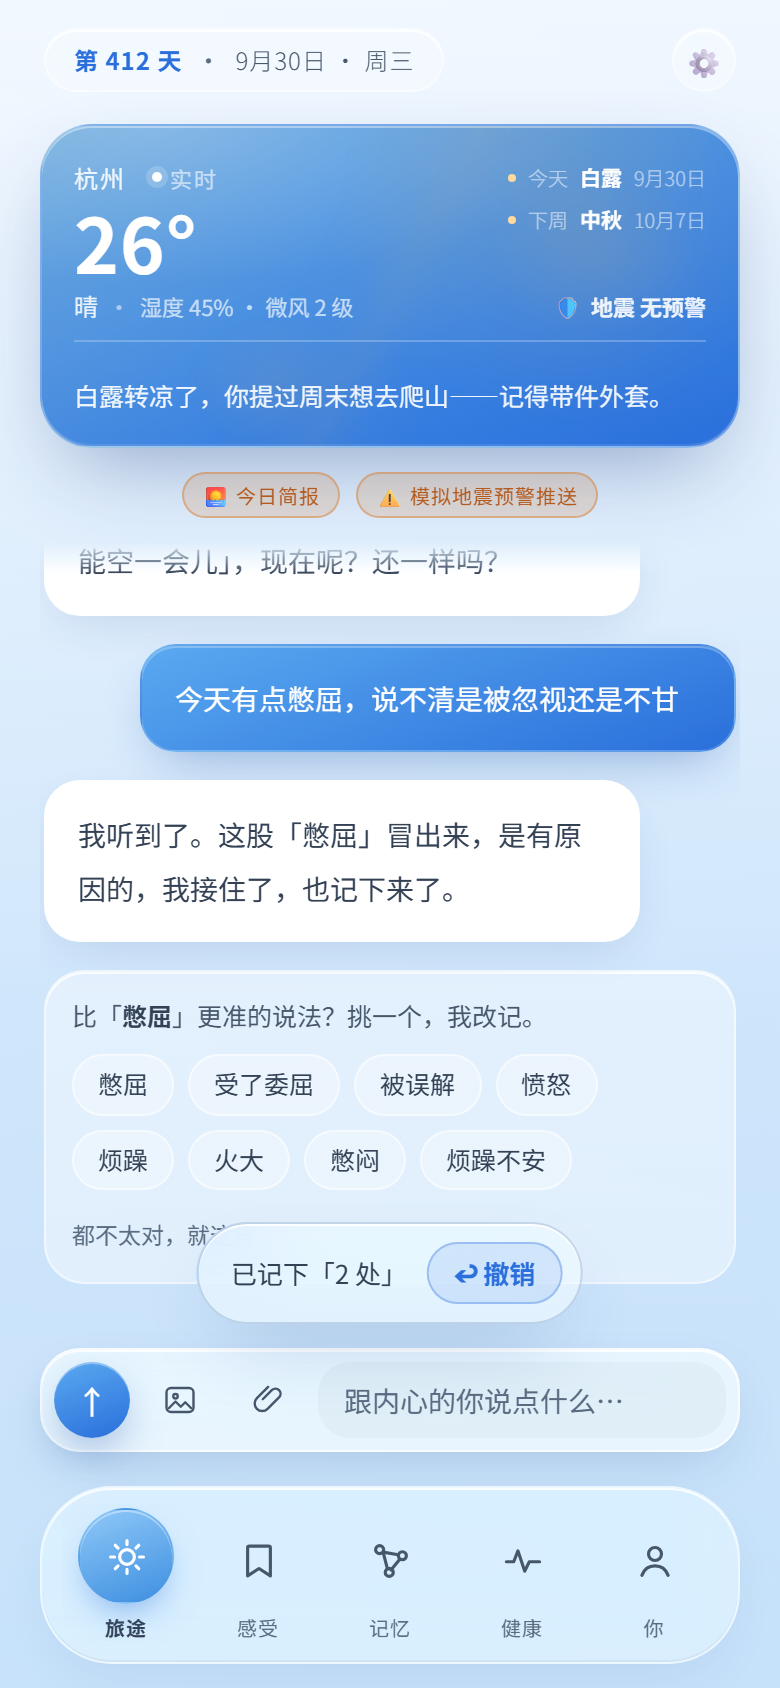
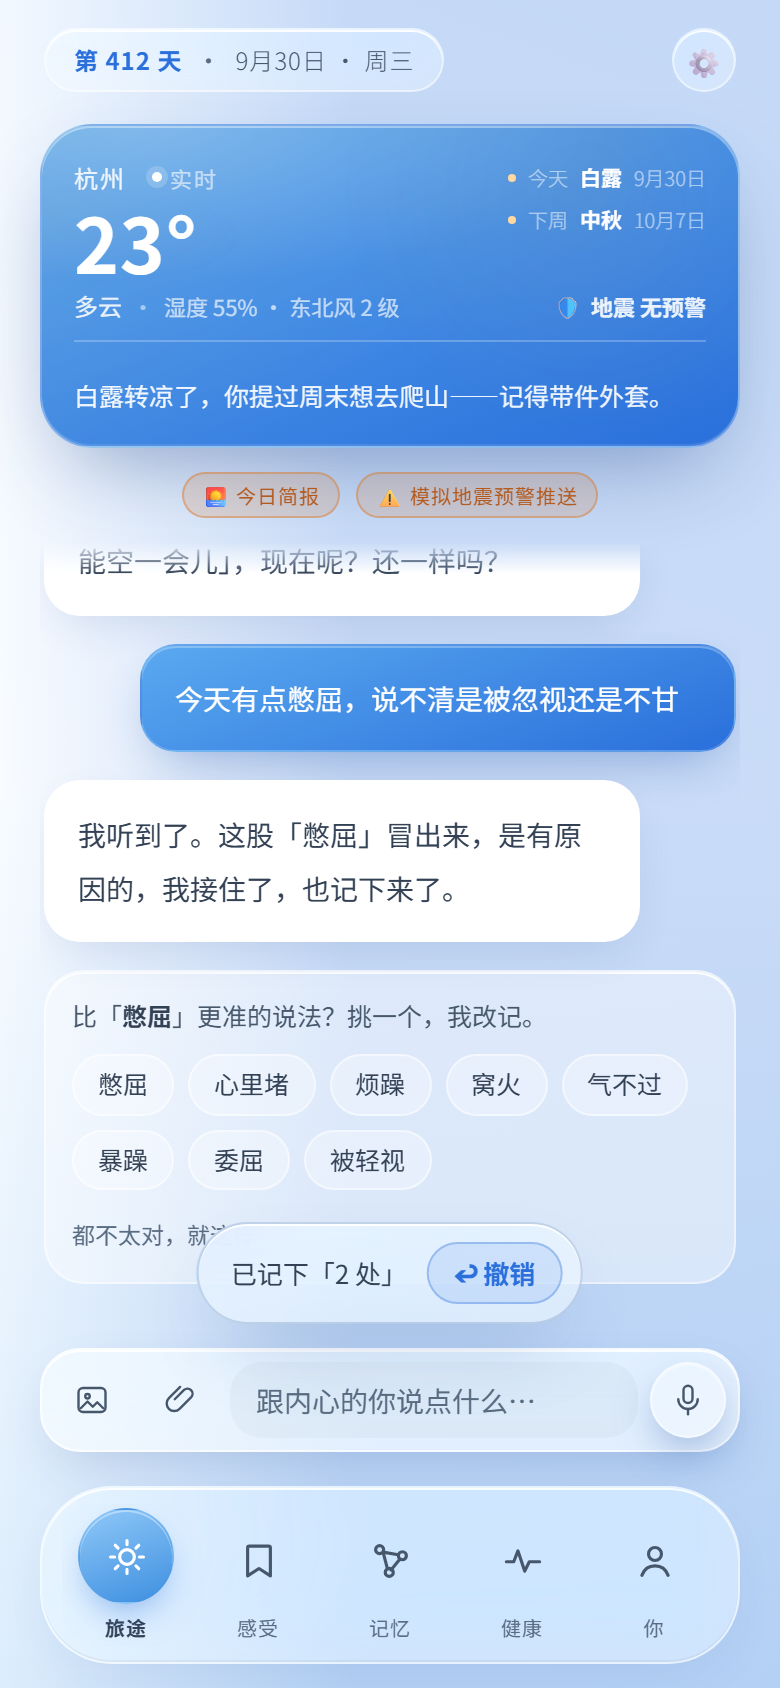
feat: 右侧按钮双态（语音 / 发送）

diff --git a/prototype/index.html b/prototype/index.html
@@ -2090,10 +2090,11 @@
     font-size:12.5px;color:var(--text-dim);line-height:1.95;
   }
   .chat-empty b{display:block;font-size:13.5px;color:var(--text);font-weight:600;margin-bottom:6px;}
-  /* v98：语音位换成发送键（保留蓝底）；右侧那个收起来，避免两个发送键并存
-     聚焦时页面发送键仍在，手机输入法的「发送」键（enterkeyhint=send）也能直接发 */
-  .chat-send.chat-lead{flex-shrink:0;}
-  .chat-send.chat-tail{display:none;}
+  /* v99：右侧按钮双态——没有文本时是语音键，有文本时变成发送键（蓝底不变） */
+  .chat-send{flex-shrink:0;}
+  .chat-send[data-mode="voice"]{background:var(--glass-bg-2);color:var(--text-dim);border:1px solid var(--glass-border);}
+  .chat-send[data-mode="voice"]:hover{color:var(--blue);border-color:var(--blue-line);}
+  .chat-send[data-mode="send"]{color:#fff;}
 
   .empty-hint{
     padding:18px 14px;border-radius:var(--r-card-sm);border:1px dashed var(--line);
@@ -2411,11 +2412,10 @@
 
       <div class="chat-tip" id="chatTip" data-page-node-id="pQfkq11SjvINSs4wKmy1u8"></div>
       <div class="chat-input" data-page-node-id="ao47MGXSRyjw0CcytEUILY">
-        <button type="button" class="chat-send chat-lead" onclick="sendChat()" aria-label="发送" data-page-node-id="bx5rScF4GbGMhchPHAS8ut">↑</button>
         <button type="button" class="chat-tool" aria-label="图片" onclick="featureTip(this,'图片')" data-page-node-id="fEwofQRDVKx9Xsk7PwLbzA"><svg viewBox="0 0 24 24" width="18" height="18" fill="none" stroke="currentColor" stroke-width="1.6" stroke-linecap="round" stroke-linejoin="round" data-page-node-id="F7pSmxlK9GfcHD1E9ndjDc"><rect x="3" y="4" width="18" height="16" rx="3" data-page-node-id="WIlvcgWo8UTCJWfp8pElHt"></rect><circle cx="9" cy="9.5" r="1.5" data-page-node-id="HOKEDkOoWNuVlIwWAtrGqe"></circle><path d="M4.5 17.5l4.5-4.5 3.5 3.5 3-3 4 4" data-page-node-id="99w6r0pWEldxGpgAEtF4MR"></path></svg></button>
         <button type="button" class="chat-tool" aria-label="文件" onclick="featureTip(this,'文件')" data-page-node-id="7wnHKyNQsyqSJ40GYO99zx"><svg viewBox="0 0 24 24" width="18" height="18" fill="none" stroke="currentColor" stroke-width="1.6" stroke-linecap="round" stroke-linejoin="round" data-page-node-id="5XzNXBJ5nQaXcbJec29OPW"><path d="M8.5 11.5l6.2-6.2a3.4 3.4 0 0 1 4.8 4.8l-7.8 7.8a5 5 0 0 1-7.1-7.1l7.5-7.5" data-page-node-id="a5DPyOjWi5LaBi8jpufxsH"></path></svg></button>
         <input id="chatText" class="chat-text" type="text" placeholder="跟内心的你说点什么…" autocomplete="off" enterkeyhint="send" onkeydown="chatKey(event)" data-page-node-id="Kauv0KfdDrHBMlmtxjtAw9">
-        <button type="button" class="chat-send chat-tail" onclick="sendChat()" aria-label="发送" data-page-node-id="aJpjOIsb5OcyuBRh8JcqEB">↑</button>
+        <button type="button" class="chat-send" id="chatAction" data-mode="voice" aria-label="语音" onclick="chatActionTap()" data-page-node-id="aJpjOIsb5OcyuBRh8JcqEB"><svg viewBox="0 0 24 24" width="18" height="18" fill="none" stroke="currentColor" stroke-width="1.6" stroke-linecap="round" stroke-linejoin="round"><rect x="9" y="2.5" width="6" height="11.5" rx="3"></rect><path d="M5.5 11.5a6.5 6.5 0 0 0 13 0"></path><path d="M12 18v3.5"></path></svg></button>
       </div>
 
     </section>
@@ -7214,6 +7214,54 @@
     if(document.readyState === 'loading'){
       document.addEventListener('DOMContentLoaded', render);
     } else { setTimeout(render, 0); }
+  })();
+
+  /* ==========================================================================
+     v99 · 输入区右侧按钮双态
+     - 输入框没有文字 → 语音键（点了提示功能待接入）
+     - 输入框有文字 → 发送键（蓝底，点了发出去）
+     手机输入法的「发送」键（enterkeyhint=send）同样能发。
+     ========================================================================== */
+  (function(){
+    var VOICE = '<svg viewBox="0 0 24 24" width="18" height="18" fill="none" stroke="currentColor" stroke-width="1.6" stroke-linecap="round" stroke-linejoin="round"><rect x="9" y="2.5" width="6" height="11.5" rx="3"></rect><path d="M5.5 11.5a6.5 6.5 0 0 0 13 0"></path><path d="M12 18v3.5"></path></svg>';
+    function input(){ return document.getElementById('chatText'); }
+    function btn(){ return document.getElementById('chatAction'); }
+    function sync(){
+      var i = input(), b = btn();
+      if(!i || !b) return;
+      var has = !!i.value.trim();
+      var mode = has ? 'send' : 'voice';
+      if(b.getAttribute('data-mode') === mode) return;
+      b.setAttribute('data-mode', mode);
+      b.setAttribute('aria-label', has ? '发送' : '语音');
+      b.innerHTML = has ? '↑' : VOICE;
+    }
+    var _origSend = null;
+    function wrapSend(){
+      if(_origSend || typeof window.sendChat !== 'function') return;
+      _origSend = window.sendChat;
+      window.sendChat = function(){
+        var r = _origSend.apply(this, arguments);
+        setTimeout(sync, 0);
+        return r;
+      };
+    }
+    window.chatActionTap = function(){
+      var b = btn();
+      var mode = b ? b.getAttribute('data-mode') : 'voice';
+      if(mode === 'send'){ if(typeof sendChat === 'function') sendChat(); }
+      else if(b && typeof featureTip === 'function'){ featureTip(b, '语音'); }
+    };
+    function bind(){
+      var i = input();
+      if(!i) return;
+      i.addEventListener('input', sync);
+      i.addEventListener('compositionend', sync);
+      sync();
+    }
+    if(document.readyState === 'loading'){
+      document.addEventListener('DOMContentLoaded', function(){ wrapSend(); bind(); });
+    } else { setTimeout(function(){ wrapSend(); bind(); }, 0); }
   })();
 
 </script>
